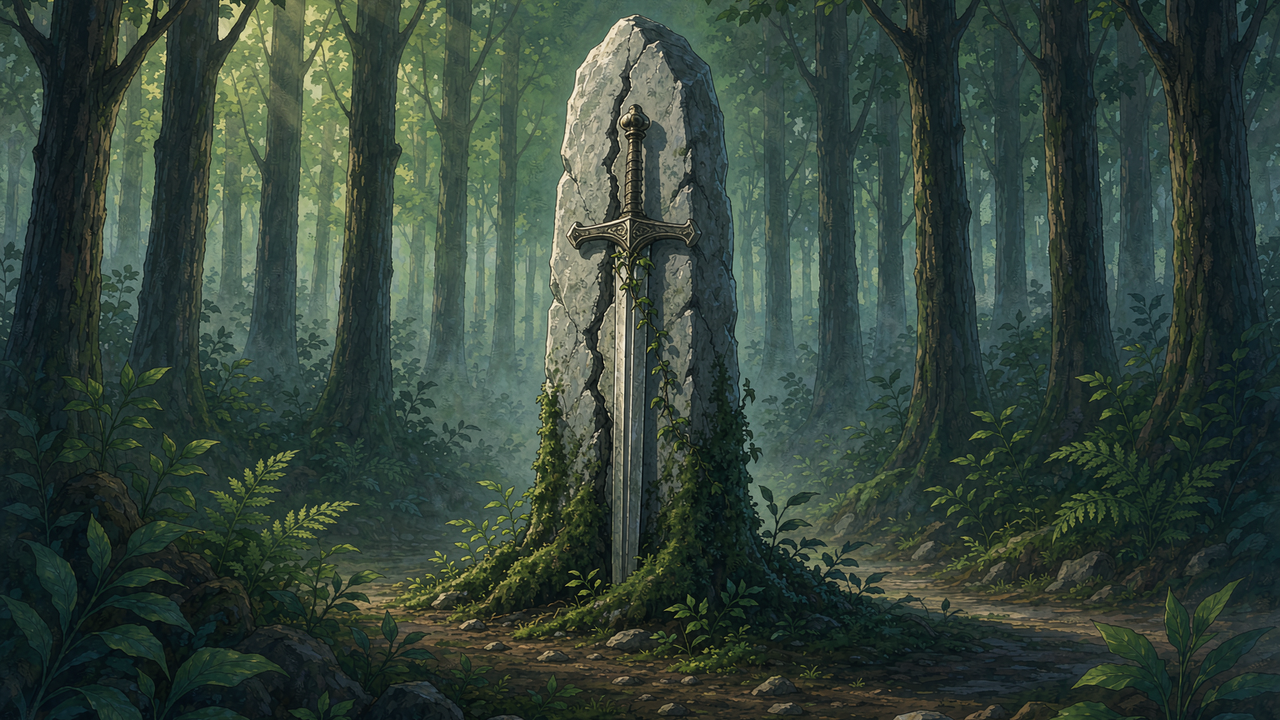
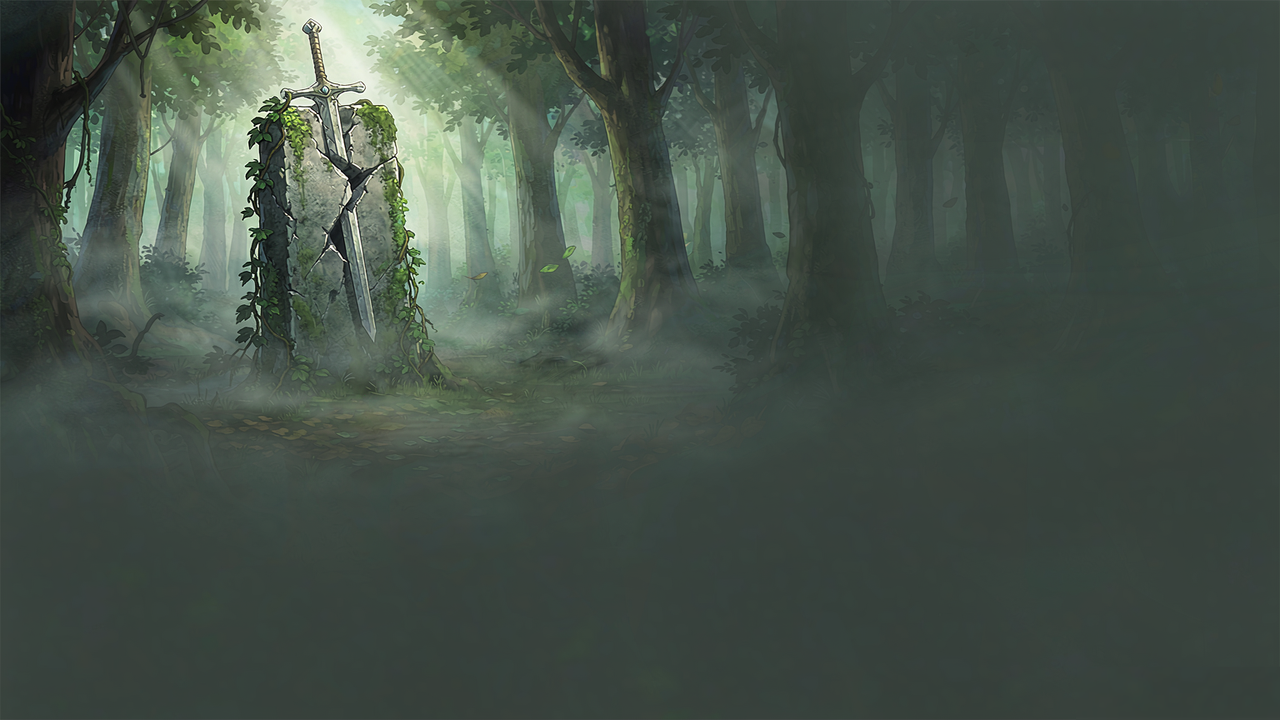
R802：有整屏背景的事件不再叠居中插图；重出 sword/factory 两张背景（主体上移、下方留给对话框）

diff --git a/tools/_make_r802_bg.py b/tools/_make_r802_bg.py
@@ -1,0 +1,49 @@
+# -*- coding: utf-8 -*-
+"""R802 落图：重出的两张事件整屏背景 → 项目规格（1280x720）。
+
+背景：
+- 原图 1536x864（本身就是 16:9），**不裁**，直接缩放；
+- 右下角「AI生成 WORKBUDDY」水印：取左侧等宽条带镜像覆盖 + 高斯模糊；
+- 主体已按「上半部 / 偏两侧」构图，下方 45% 留给对话框。
+
+用法：python tools/_make_r802_bg.py
+"""
+import struct
+from PIL import Image, ImageFilter
+
+RAW = "E:/tmp/r802_art/"
+UI = "E:/tmp/wt_shot/assets/ui/"
+
+# 原图文件名 → 目标名
+JOBS = [
+    ("Painted_illustration__16_9_wid_2026-11-18T12-24-03.png", "bg_sword.png"),
+    ("Painted_illustration__16_9_wid_2026-11-18T12-24-29.png", "bg_factory.png"),
+]
+
+
+def kill_wm(im):
+    """右下角水印：取其左侧等宽条带水平镜像覆盖，再对该块高斯模糊一次。"""
+    w, h = im.size
+    bw, bh = int(w * 0.16), int(h * 0.075)
+    x0, y0 = w - bw, h - bh
+    src = im.crop((x0 - bw, y0, x0, y0 + bh)).transpose(Image.FLIP_LEFT_RIGHT)
+    src = src.filter(ImageFilter.GaussianBlur(3))
+    im.paste(src, (x0, y0))
+    return im
+
+
+def png_size(path):
+    with open(path, "rb") as f:
+        b = f.read(33)
+    return struct.unpack(">II", b[16:24])
+
+
+for src_name, dst_name in JOBS:
+    im = Image.open(RAW + src_name).convert("RGB")
+    print("in ", src_name, im.size)
+    im = kill_wm(im)
+    im = im.resize((1280, 720), Image.LANCZOS)
+    out = UI + dst_name
+    im.save(out, optimize=True)
+    print("out", out, png_size(out))
+print("all done")
